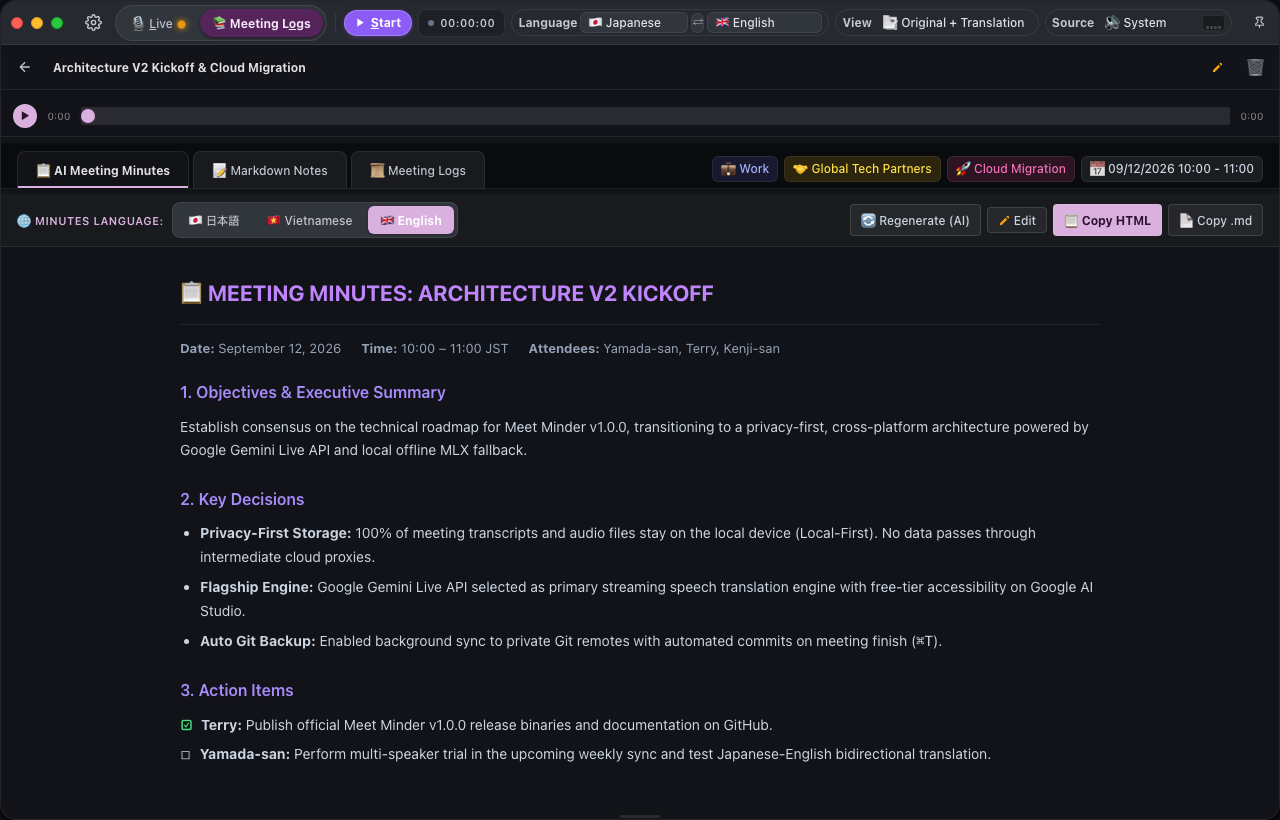
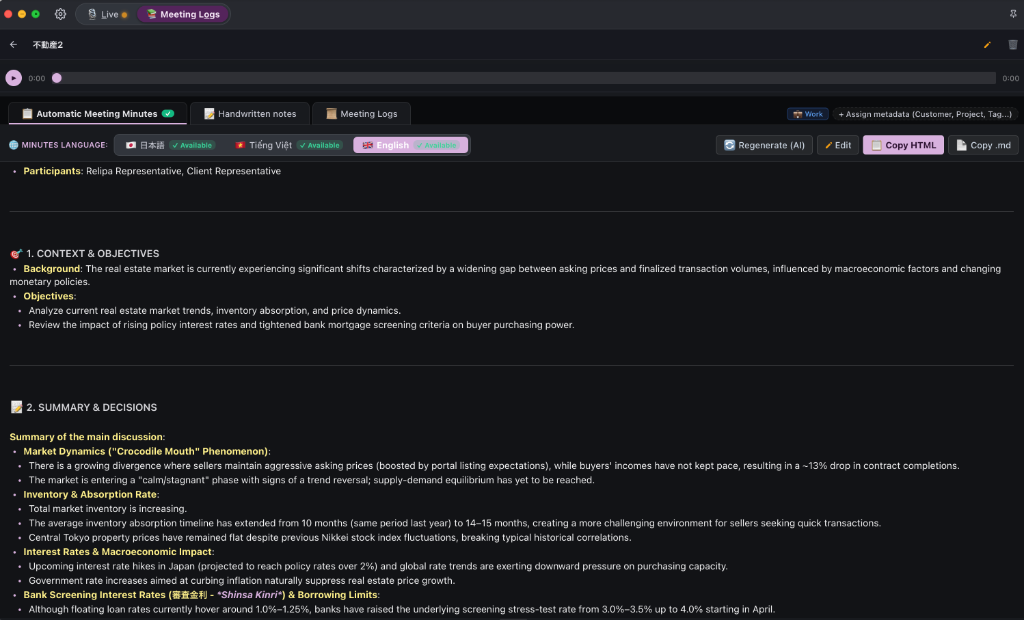
docs: illustrate 3-tab session hub and meeting logs with authentic screenshots across all languages

diff --git a/README.vi.md b/README.vi.md
@@ -120,9 +120,17 @@ Tải phiên bản mới nhất từ trang [**GitHub Releases**](https://github.
 
 ### 4. Trình quản lý phiên họp 3 Thẻ (3-Tab Session Viewer)
 
-- **Thẻ 1: Biên bản cuộc họp (Meeting Minutes)**: AI tự động phân tích mục tiêu, quyết định đã chốt và danh sách việc cần làm. Hỗ trợ song ngữ (JA/VI, EN/VI) hoặc đơn ngữ.
+- **Thẻ 1: Biên bản cuộc họp (Meeting Minutes)**: AI tự động phân tích mục tiêu, quyết định đã chốt và danh sách việc cần làm (hỗ trợ tiếng Anh, Nhật, Việt).
+
+![Biên bản cuộc họp AI](docs/user_manual/session_minutes.png)
+
 - **Thẻ 2: Ghi chú thông minh (Take Notes - Phong cách Obsidian)**: Soạn thảo Markdown mượt mà với CodeMirror 6, Live Preview tức thì, toolbar định dạng đầy đủ, checklist việc cần làm (`[ ]` / `[x]`).
-- **Thẻ 3: Nhật ký hội thoại & Thanh phát lại âm thanh**: Phân tách người nói rõ ràng, hỗ trợ chỉnh sửa trực tiếp nội dung (Inline Edit) và đồng bộ vị trí nghe âm thanh theo từng câu thoại.
+
+![Ghi chép Markdown](docs/user_manual/session_notes.png)
+
+- **Thẻ 3: Nhật ký hội thoại & Thanh phát lại âm thanh**: Hiển thị song ngữ thời gian thực, đồng bộ vị trí nghe âm thanh theo từng câu thoại, hỗ trợ gõ lại (Re-transcript) và xuất định dạng phụ đề `.srt` / `.txt`.
+
+![Nhật ký cuộc họp song ngữ & Audio Scrubber](docs/user_manual/session_logs.png)
 
 ---
 

diff --git a/README.md b/README.md
@@ -120,9 +120,17 @@ Download pre-built installers directly from [**GitHub Releases**](https://github
 
 ### 4. 3-Tab Session Hub (Minutes • Notes • Logs)
 
-- **Tab 1: AI Meeting Minutes**: Markdown report with executive summary, key decisions, and actionable task lists. Supports bilingual (JA/VI, EN/VI) or monolingual modes.
+- **Tab 1: AI Meeting Minutes**: Structured Markdown report with executive summary, key decisions, and actionable task lists generated in seconds. Multi-language output (English, Japanese, Vietnamese).
+
+![AI Meeting Minutes](docs/user_manual/session_minutes.png)
+
 - **Tab 2: Obsidian-Style Notes (CodeMirror 6)**: Full-featured Markdown editor with live preview, formatting toolbar, task checklists (`[ ]` / `[x]`), and quick meeting drawer (`⌘ N`).
-- **Tab 3: Meeting Logs & Synchronized Audio Player**: Speaker-labeled transcript lines, inline editing for corrections, and audio waveform scrubber that syncs to any clicked sentence.
+
+![Obsidian-Style Markdown Notes](docs/user_manual/session_notes.png)
+
+- **Tab 3: Meeting Logs & Synchronized Audio Player**: Speaker-labeled transcript lines, timeline-synced bilingual columns, inline editing for corrections, and audio waveform scrubber that syncs to any clicked sentence. Includes one-click `.srt` and `.txt` export.
+
+![Meeting Logs & Synchronized Audio Player](docs/user_manual/session_logs.png)
 
 ---
 

diff --git a/README.ja.md b/README.ja.md
@@ -120,9 +120,17 @@
 
 ### 4. 3タブ・セッション管理（議事録 • メモ • ログ＆プレイヤー）
 
-- **タブ 1: AI議事録 (Meeting Minutes)**: サマリー、決定事項、ToDoリストを自動整理。二言語併記（日越・英越）または単一言語に対応。
+- **タブ 1: AI議事録 (Meeting Minutes)**: サマリー、決定事項、ToDoリストを自動整理。日本語、英語、ベトナム語に対応。
+
+![AI議事録](docs/user_manual/session_minutes_ja.png)
+
 - **タブ 2: Obsidian風メモ (Take Notes)**: CodeMirror 6搭載のMarkdownエディタ。リアルタイムプレビュー、書式ツールバー、チェックリスト対応。
-- **タブ 3: 会議ログ ＆ 音声同期プレイヤー**: 話者ごとの発話タイムライン、インライン編集機能、クリックした発言箇所へ即座にスキップできる音声再生バー。
+
+![Obsidian風Markdownメモ](docs/user_manual/session_notes.png)
+
+- **タブ 3: 会議ログ ＆ 音声同期プレイヤー**: 話者ごとの発話タイムライン、二言語対訳表示、クリックした発言箇所へ即座にスキップできる音声再生バー、Re-transcriptおよび `.srt` / `.txt` 出力に対応。
+
+![会議ログと音声プレイヤー同期](docs/user_manual/session_logs.png)
 
 ---
 

diff --git a/docs/installation_guide_vi.md b/docs/installation_guide_vi.md
@@ -155,6 +155,19 @@ Trên màn hình chính (Live Overlay), nhấp nút **Start** hoặc dùng các 
 
 ---
 
+## Bước 7 — Xem lại Cuộc họp đã lưu, Biên bản AI & Audio
+
+Nhấn <kbd>⌘</kbd> + <kbd>O</kbd> hoặc click **📚 Meeting Logs** để mở giao diện quản lý phiên họp 3 thẻ:
+
+![Biên bản cuộc họp AI](user_manual/session_minutes.png)
+
+- **Biên bản cuộc họp AI**: Tóm tắt mục tiêu, quyết định chính và việc cần làm (hỗ trợ tiếng Anh, Nhật, Việt).
+- **Nhật ký cuộc họp song ngữ**: Đối chiếu lời thoại song ngữ, nhấp câu thoại để tua audio, hỗ trợ Re-transcript và xuất phụ đề `.srt` / `.txt`:
+
+![Nhật ký cuộc họp song ngữ & Audio Scrubber](user_manual/session_logs.png)
+
+---
+
 ## ℹ Thông tin Tác giả & Hỗ trợ kỹ thuật
 
 - **Tác giả & Phát triển**: **Terry**

diff --git a/docs/installation_guide.md b/docs/installation_guide.md
@@ -155,6 +155,19 @@ On the main Live Overlay window, click **Start** or use convenient hotkeys:
 
 ---
 
+## Step 7 — Review Saved Meetings, AI Minutes & Audio Logs
+
+Press <kbd>⌘</kbd> + <kbd>O</kbd> or click **📚 Meeting Logs** to review past meetings, read structured AI meeting minutes, and playback synchronized audio:
+
+![AI Meeting Minutes](user_manual/session_minutes.png)
+
+- **AI Meeting Minutes**: Executive summaries, key decisions, and actionable task lists in English, Japanese, and Vietnamese.
+- **Meeting Logs**: Word-by-word bilingual transcript synchronized with interactive audio playback scrubber and one-click `.srt` / `.txt` export:
+
+![Meeting Logs & Audio Scrubber](user_manual/session_logs.png)
+
+---
+
 ## ℹ Author & Support
 
 - **Author & Developer**: **Terry**
